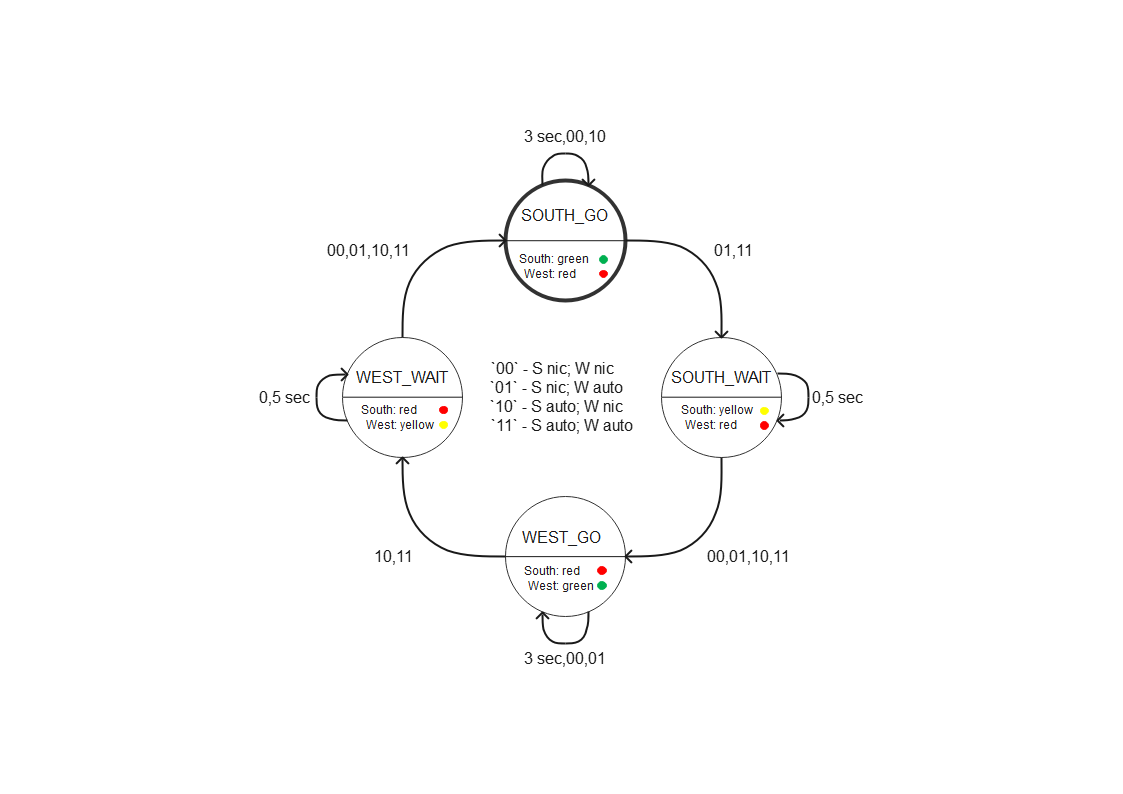
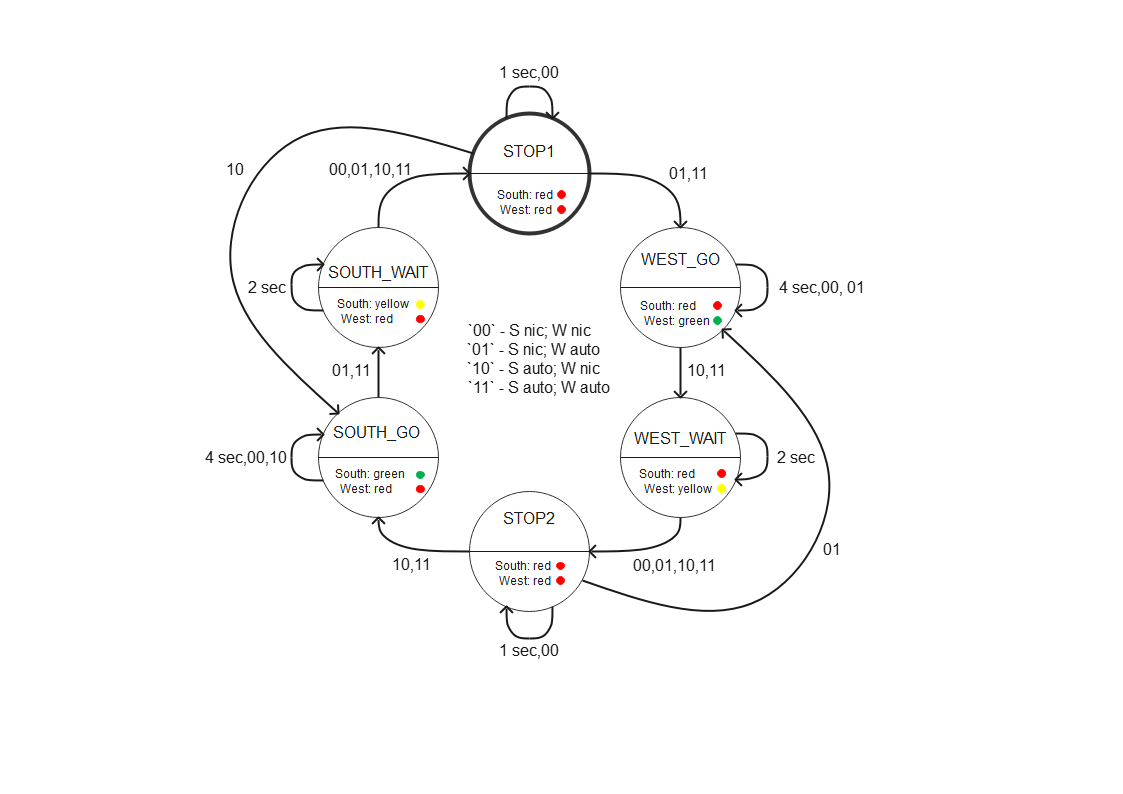
Update README.md

diff --git a/Labs/08-traffic-lights/README.md b/Labs/08-traffic-lights/README.md
@@ -192,10 +192,6 @@
 
 ![Smart_controller](Images/Smart_controller.png)
 
-#### State diagram of original controller
-
-![Smart_controller](Images/Smart_controller2.png)
-
 ### VHDL code of sequential process `p_smart_traffic_fsm`
 
 ```vhdl
@@ -203,51 +199,100 @@
     begin
         if rising_edge(clk) then
             if (reset = '1') then       -- Synchronous reset
-                s_state <= SOUTH_GO ;      -- Set initial state
+                s_state <= STOP1 ;      -- Set initial state
                 s_cnt   <= c_ZERO;      -- Clear all bits
 
             elsif (s_en = '1') then
                 case s_state is
 
-                    when SOUTH_GO =>
-                        if (s_cnt < c_DELAY_3SEC) then
+                    when STOP1 =>
+                        -- Count up to c_DELAY_1SEC
+                        if(s_cnt < c_DELAY_1SEC) then
                             s_cnt <= s_cnt + 1;
-                        elsif (sensors_i = "01" or sensors_i = "11") then
-                            s_state <= SOUTH_WAIT;
-                            s_cnt   <= c_ZERO;   
-                        else
+                        elsif((sensor_s = '0' and sensor_w = '1') or (sensor_s = '1' and sensor_w = '1')) then
+                            -- Move to the next state
+                            s_state <= WEST_GO;
+                            -- Reset local counter value
+                            s_cnt   <= c_ZERO;
+                        elsif(sensor_s = '1' and sensor_w = '0') then
+                            -- Move to the next state
                             s_state <= SOUTH_GO;
+                            -- Reset local counter value
+                            s_cnt   <= c_ZERO;
+                        else
+                            s_state <= STOP1;
                         end if;
 
-                    when SOUTH_WAIT =>
-                        if (s_cnt < c_DELAY_0dp5SEC) then
-                            s_cnt <= s_cnt + 1;
-                        else
-                            s_state <= WEST_GO;
-                            s_cnt   <= c_ZERO;
-                        end if;
                     when WEST_GO =>
-                        if (s_cnt < c_DELAY_3SEC) then
+                        -- Count up to c_DELAY_4SEC
+                        if (s_cnt < c_DELAY_4SEC) then
                             s_cnt <= s_cnt + 1;
-                        elsif (sensors_i = "10" or sensors_i = "11") then
+                        elsif((sensor_s = '1' and sensor_w = '0') or (sensor_s = '1' and sensor_w = '1')) then
+                             -- Move to the next state
                             s_state <= WEST_WAIT;
-                            s_cnt   <= c_ZERO;   
+                            -- Reset local counter value
+                            s_cnt   <= c_ZERO;
                         else
                             s_state <= WEST_GO;
                         end if;
 
                     when WEST_WAIT =>
-                        if (s_cnt < c_DELAY_0dp5SEC) then
+                        -- Count up to c_DELAY_2SEC
+                        if (s_cnt < c_DELAY_2SEC) then
                             s_cnt <= s_cnt + 1;
                         else
+                            -- Move to the next state
+                            s_state <= STOP2;
+                            -- Reset local counter value
+                            s_cnt   <= c_ZERO;
+                        end if;
+
+                    when STOP2 =>
+                        -- Count up to c_DELAY_1SEC
+                        if (s_cnt < c_DELAY_1SEC) then
+                            s_cnt <= s_cnt + 1;
+                        elsif((sensor_s = '1' and sensor_w = '0') or (sensor_s = '1' and sensor_w = '1')) then
+                            -- Move to the next state
                             s_state <= SOUTH_GO;
+                            -- Reset local counter value
+                            s_cnt   <= c_ZERO;
+                        elsif(sensor_s = '0' and sensor_w = '1') then
+                            -- Move to the next state
+                            s_state <= WEST_GO;
+                            -- Reset local counter value
+                            s_cnt   <= c_ZERO;
+                        else
+                            s_state <= STOP2;
+                        end if;
+
+                    when SOUTH_GO =>
+                        -- Count up to c_DELAY_4SEC
+                        if (s_cnt < c_DELAY_4SEC) then
+                            s_cnt <= s_cnt + 1;
+                        elsif((sensor_s = '0' and sensor_w = '1') or (sensor_s = '1' and sensor_w = '1')) then
+                            -- Move to the next state
+                            s_state <= SOUTH_WAIT;
+                            -- Reset local counter value
+                            s_cnt   <= c_ZERO;
+                        else
+                            s_state <= SOUTH_GO;
+                        end if;
+
+                    when SOUTH_WAIT =>
+                        -- Count up to c_DELAY_2SEC
+                        if (s_cnt < c_DELAY_2SEC) then
+                            s_cnt <= s_cnt + 1;
+                        else
+                            -- Move to the next state
+                            s_state <= STOP1;
+                            -- Reset local counter value
                             s_cnt   <= c_ZERO;
                         end if;       
-
                     when others =>
-                        s_state <= SOUTH_GO;
+                        s_state <= STOP1;
+
                 end case;
-            end if;
-        end if;
+            end if; -- Synchronous reset
+        end if; -- Rising edge
     end process p_smart_traffic_fsm;
 ```
